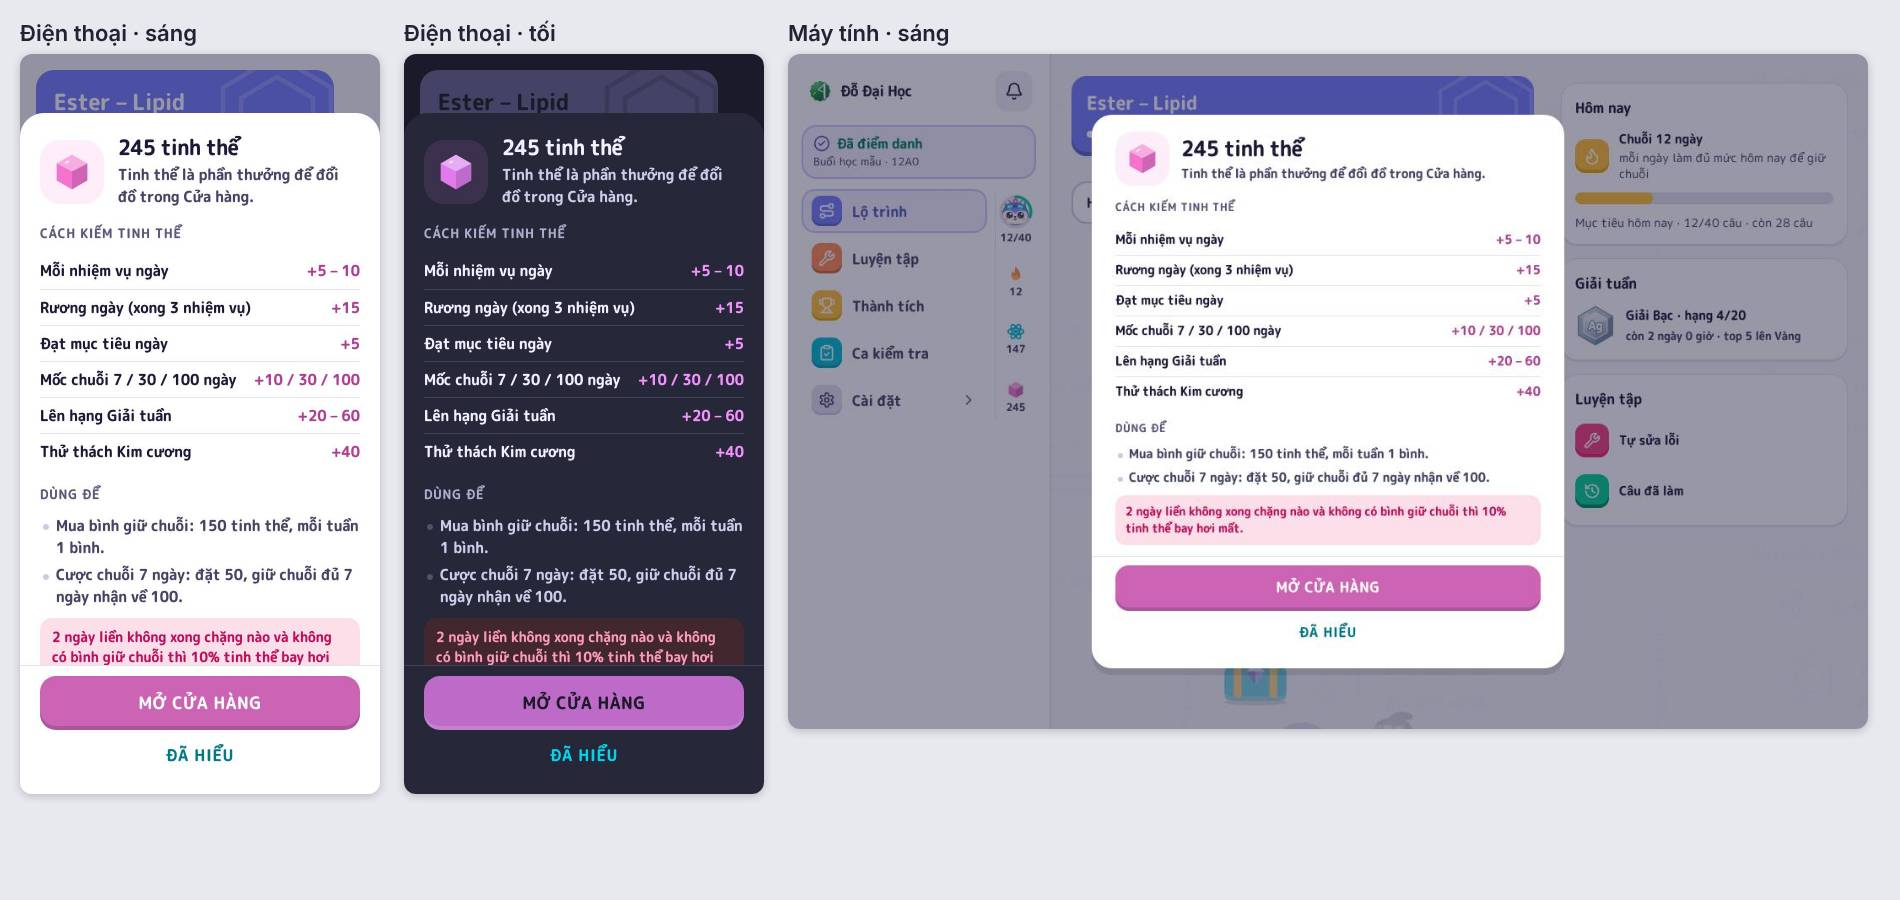
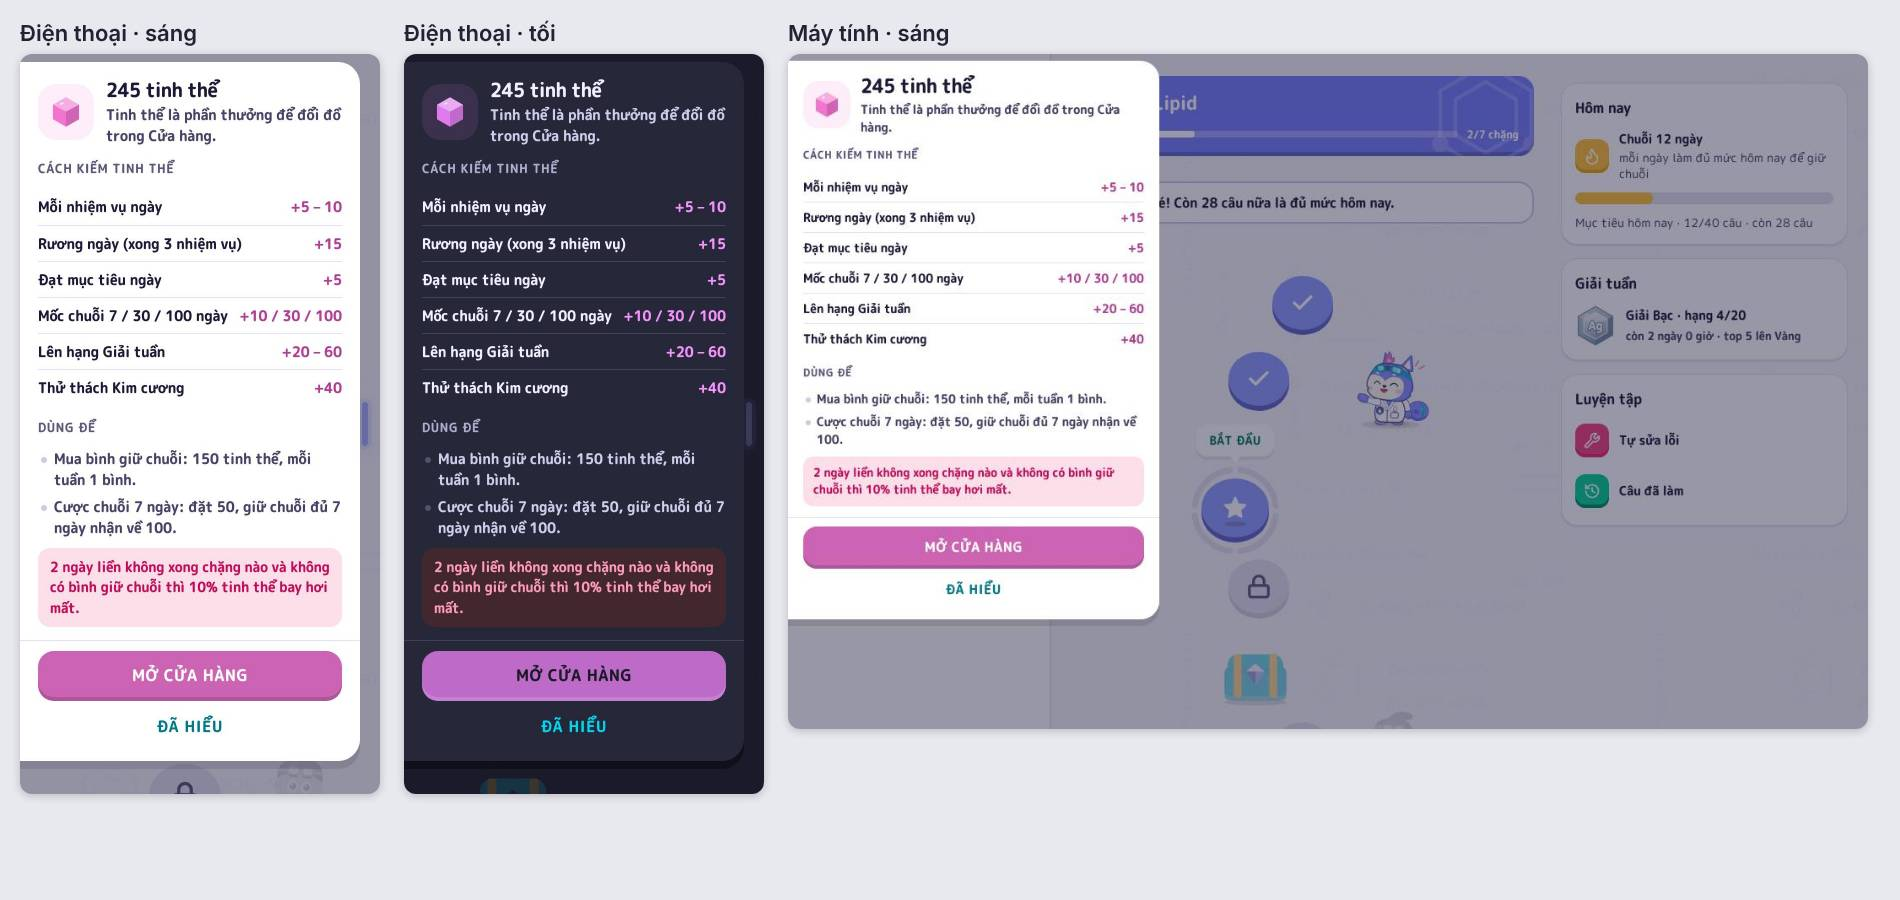
Thẻ hướng dẫn trượt ra từ mép trái, ghim góc trên trái; soát tràn chữ 5 khổ (thầy duyệt 30/10)
Claude-Session: https://claude.ai/code/session_01Ep3ep8fapn3LQteUN5cuuC

diff --git a/src/styles/trong-thuong.css b/src/styles/trong-thuong.css
@@ -601,64 +601,62 @@
 [data-trong='hs'] .tp-3o > div { display: grid; grid-row: span 2; grid-template-rows: subgrid; }
 [data-trong='hs'] .tp-3o p { display: grid; place-items: center; line-height: 1.25; }
 
-/* ── TẤM HƯỚNG DẪN BIỂU TƯỢNG (thầy 30/10, TamHuongDan.tsx): chạm lửa / nguyên tử / tinh thể ⇒ tấm đáy giải thích. Cùng dáng tấm giữ chân (trong-giu-chan.css):
-   nền mờ, tấm trượt lên có vạch kéo; máy tính ⇒ hộp giữa màn. Chỉ biến màu sẵn có; hoạt ảnh chỉ transform / opacity, giảm chuyển động / máy yếu ⇒ tắt. */
-[data-trong='hs'] .tp-hd { position: fixed; inset: 0; z-index: 85; display: flex; align-items: flex-end; justify-content: center; font-family: var(--tp-f); }
+/* ── THẺ HƯỚNG DẪN BIỂU TƯỢNG (thầy 30/10, TamHuongDan.tsx): chạm lửa / nguyên tử / tinh thể ⇒ thẻ giải thích. Thầy duyệt + đổi: «chảy ra từ mép trái và
+   cố định ở trên mép trái» ⇒ thẻ dán mép trái, ghim trên cùng, trượt ngang ra; nền mờ phía sau (chạm = đóng). Thẻ dài ⇒ nội dung cuộn, hai nút ghim đáy thẻ.
+   Chữ không tràn: cột số không xuống dòng, cột chữ co + xuống dòng (overflow-wrap). Chỉ biến màu sẵn có; hoạt ảnh chỉ transform / opacity, giảm chuyển động /
+   máy yếu ⇒ tắt. */
+[data-trong='hs'] .tp-hd { position: fixed; inset: 0; z-index: 85; display: flex; align-items: flex-start; justify-content: flex-start; font-family: var(--tp-f); }
 [data-trong='hs'] .tp-hd-nen { position: absolute; inset: 0; background: color-mix(in srgb, var(--tr-chu) 45%, transparent); animation: tp-hd-hien 200ms ease-out both; }
 @media (prefers-color-scheme: dark) { [data-trong='hs'] .tp-hd-nen { background: color-mix(in srgb, var(--tr-trang) 72%, transparent); } }
 [data-trong='hs'] .tp-hd-tam {
-  position: relative; width: min(560px, 100%); max-height: 92dvh; overflow-y: auto; overscroll-behavior: contain;
-  display: flex; flex-direction: column; gap: 10px; padding: 10px 20px calc(18px + env(safe-area-inset-bottom));
-  border-radius: 24px 24px 0 0; background: var(--tr-mat); color: var(--tr-chu); box-shadow: var(--tr-bong-3);
-  animation: tp-hd-truot 280ms cubic-bezier(.2, .9, .3, 1) both;
+  position: relative; box-sizing: border-box; width: min(440px, calc(100vw - 20px)); max-height: calc(100dvh - 16px - env(safe-area-inset-top));
+  margin-top: calc(8px + env(safe-area-inset-top)); overflow-x: hidden; overflow-y: auto; overscroll-behavior: contain;
+  display: flex; flex-direction: column; gap: 10px; padding: 16px 18px 16px calc(18px + env(safe-area-inset-left));
+  border-radius: 0 22px 22px 0; background: var(--tr-mat); color: var(--tr-chu); box-shadow: var(--tr-bong-3);
+  animation: tp-hd-chay 300ms cubic-bezier(.2, .9, .3, 1) both;
 }
-[data-trong='hs'] .tp-hd-keo { align-self: center; width: 44px; height: 5px; margin-bottom: 2px; border-radius: 999px; background: var(--tr-vien-2); }
-[data-trong='hs'] .tp-hd-dau { display: flex; align-items: center; gap: 14px; }
-[data-trong='hs'] .tp-hd-hinh { display: grid; place-items: center; width: 64px; height: 64px; flex: none; border-radius: 20px; background: var(--tr-dung-nhat); font-size: 40px; }
+[data-trong='hs'] .tp-hd-dau { display: flex; align-items: center; gap: 12px; min-width: 0; }
+[data-trong='hs'] .tp-hd-dau > div { min-width: 0; }
+[data-trong='hs'] .tp-hd-hinh { display: grid; place-items: center; width: 56px; height: 56px; flex: none; border-radius: 18px; background: var(--tr-dung-nhat); font-size: 34px; }
 [data-trong='hs'] .tp-hd[data-k='lua'] .tp-hd-hinh { background: var(--tr-chu-y-nhat); }
 [data-trong='hs'] .tp-hd[data-k='tt'] .tp-hd-hinh { background: var(--tp-tt-nhat); }
-[data-trong='hs'] .tp-hd-dau h2 { margin: 0; font-size: clamp(21px, 5.6vw, 25px); font-weight: 900; line-height: 1.2; }
-[data-trong='hs'] .tp-hd-dau p { margin: 4px 0 0; color: var(--tr-chu-2); font-size: 15px; font-weight: 600; line-height: 1.45; }
-[data-trong='hs'] .tp-hd-nay { margin: 0; padding: 9px 12px; border-radius: 12px; background: var(--tr-chu-y-nhat); color: var(--tr-chu-y-chu); font-size: 15px; font-weight: 800; line-height: 1.4; }
-[data-trong='hs'] .tp-hd-tam h3 { margin: 6px 0 0; color: var(--tr-chu-3); font-size: 13px; font-weight: 800; letter-spacing: .06em; text-transform: uppercase; }
+[data-trong='hs'] .tp-hd-dau h2 { margin: 0; font-size: clamp(19px, 5.4vw, 23px); font-weight: 900; line-height: 1.2; overflow-wrap: anywhere; }
+[data-trong='hs'] .tp-hd-dau p { margin: 3px 0 0; color: var(--tr-chu-2); font-size: 14.5px; font-weight: 600; line-height: 1.45; overflow-wrap: anywhere; }
+[data-trong='hs'] .tp-hd-nay { margin: 0; padding: 9px 12px; border-radius: 12px; background: var(--tr-chu-y-nhat); color: var(--tr-chu-y-chu); font-size: 14.5px; font-weight: 800; line-height: 1.4; overflow-wrap: anywhere; }
+[data-trong='hs'] .tp-hd-tam h3 { margin: 4px 0 0; color: var(--tr-chu-3); font-size: 12.5px; font-weight: 800; letter-spacing: .06em; text-transform: uppercase; }
 [data-trong='hs'] .tp-hd-ds, [data-trong='hs'] .tp-hd-dung { margin: 0; padding: 0; list-style: none; }
-[data-trong='hs'] .tp-hd-ds li { display: flex; align-items: center; gap: 10px; min-height: 36px; padding: 5px 0; border-top: 1px solid var(--tr-vien); font-size: 15px; line-height: 1.35; }
+[data-trong='hs'] .tp-hd-ds li { display: flex; align-items: center; gap: 10px; min-height: 36px; padding: 5px 0; border-top: 1px solid var(--tr-vien); font-size: 14.5px; line-height: 1.35; }
 [data-trong='hs'] .tp-hd-ds li:first-child { border-top: 0; }
-[data-trong='hs'] .tp-hd-ds li span { flex: 1; min-width: 0; color: var(--tr-chu); font-weight: 600; }
-[data-trong='hs'] .tp-hd-ds li b { flex: none; color: var(--tr-dung-chu); font-weight: 900; white-space: nowrap; }
+[data-trong='hs'] .tp-hd-ds li span { flex: 1; min-width: 0; color: var(--tr-chu); font-weight: 600; overflow-wrap: anywhere; }
+[data-trong='hs'] .tp-hd-ds li b { flex: none; max-width: 48%; color: var(--tr-dung-chu); font-weight: 900; text-align: right; }
 [data-trong='hs'] .tp-hd[data-k='tt'] .tp-hd-ds li b { color: var(--tp-tt-chu); }
 [data-trong='hs'] .tp-hd[data-k='lua'] .tp-hd-ds li b { color: var(--tr-chu-y-chu); }
 [data-trong='hs'] .tp-hd-dung { display: flex; flex-direction: column; gap: 6px; }
-[data-trong='hs'] .tp-hd-dung li { position: relative; padding-left: 16px; color: var(--tr-chu-2); font-size: 15px; font-weight: 600; line-height: 1.45; }
+[data-trong='hs'] .tp-hd-dung li { position: relative; padding-left: 16px; color: var(--tr-chu-2); font-size: 14.5px; font-weight: 600; line-height: 1.45; overflow-wrap: anywhere; }
 [data-trong='hs'] .tp-hd-dung li::before { content: ''; position: absolute; left: 3px; top: .62em; width: 6px; height: 6px; border-radius: 50%; background: var(--tr-vien-2); }
-[data-trong='hs'] .tp-hd-luu { margin: 0; padding: 9px 12px; border-radius: 12px; background: var(--tr-sai-nhat); color: var(--tr-sai-chu); font-size: 14px; font-weight: 700; line-height: 1.45; }
-/* nút ghim đáy tấm (tấm dài trên điện thoại vẫn thấy nút ngay, nội dung cuộn dưới nút) */
+[data-trong='hs'] .tp-hd-luu { margin: 0; padding: 9px 12px; border-radius: 12px; background: var(--tr-sai-nhat); color: var(--tr-sai-chu); font-size: 14px; font-weight: 700; line-height: 1.45; overflow-wrap: anywhere; }
+/* nút ghim đáy thẻ (thẻ dài trên điện thoại vẫn thấy nút ngay, nội dung cuộn dưới nút) */
 [data-trong='hs'] .tp-hd-nut {
-  position: sticky; bottom: calc(-18px - env(safe-area-inset-bottom)); z-index: 1; display: flex; flex-direction: column; gap: 2px;
-  margin: 4px -20px calc(-18px - env(safe-area-inset-bottom)); padding: 10px 20px calc(14px + env(safe-area-inset-bottom));
+  position: sticky; bottom: -16px; z-index: 1; display: flex; flex-direction: column; gap: 2px;
+  margin: 4px -18px -16px calc(-18px - env(safe-area-inset-left)); padding: 10px 18px 12px calc(18px + env(safe-area-inset-left));
   background: var(--tr-mat); box-shadow: 0 -1px 0 var(--tr-vien);
 }
 [data-trong='hs'] .tp-hd[data-k='tt'] .tp-hd-nut .tp-nut-lon:first-child { background: var(--tp-tt-dam); color: var(--tp-tren); }
+[data-trong='hs'] .tp-hd .tp-nut-lon { min-height: 50px; padding: 0 14px; font-size: 16px; white-space: normal; text-align: center; }
 [data-trong='hs'] .tp-hd-hieu {
-  min-height: 48px; padding: 0 16px; border: 0; border-radius: 14px; background: transparent; color: var(--tr-tin-chu);
-  font: 800 16px/1.2 var(--tp-f); letter-spacing: .06em; text-transform: uppercase; cursor: pointer; touch-action: manipulation;
+  min-height: 46px; padding: 0 16px; border: 0; border-radius: 14px; background: transparent; color: var(--tr-tin-chu);
+  font: 800 15.5px/1.2 var(--tp-f); letter-spacing: .06em; text-transform: uppercase; cursor: pointer; touch-action: manipulation;
 }
 [data-trong='hs'] .tp-hd-hieu:hover { background: var(--tr-tin-nhat); }
 [data-trong='hs'] .tp-hd :is(.tp-nut-lon, .tp-hd-hieu):focus-visible { outline: 3px solid var(--tr-tin); outline-offset: 2px; }
+/* khung thấp (xoay ngang): biểu tượng nhỏ lại, hai nút cùng hàng */
 @media (max-height: 560px) {
-  [data-trong='hs'] .tp-hd-tam { gap: 6px; padding-top: 6px; }
-  [data-trong='hs'] .tp-hd-hinh { width: 48px; height: 48px; font-size: 30px; border-radius: 16px; }
+  [data-trong='hs'] .tp-hd-tam { gap: 6px; padding-top: 10px; }
+  [data-trong='hs'] .tp-hd-hinh { width: 44px; height: 44px; font-size: 26px; border-radius: 14px; }
   [data-trong='hs'] .tp-hd-nut { flex-direction: row-reverse; }
   [data-trong='hs'] .tp-hd-nut > * { flex: 1; }
 }
-@media (min-width: 900px) and (min-height: 600px) {
-  [data-trong='hs'] .tp-hd { align-items: center; }
-  [data-trong='hs'] .tp-hd-tam { border-radius: 24px; padding: 20px 28px 22px; animation-name: tp-hd-noi; }
-  [data-trong='hs'] .tp-hd-nut { bottom: -22px; margin: 4px -28px -22px; padding: 10px 28px 18px; border-radius: 0 0 24px 24px; }
-  [data-trong='hs'] .tp-hd-keo { display: none; }
-}
 @keyframes tp-hd-hien { from { opacity: 0; } }
-@keyframes tp-hd-truot { from { transform: translateY(100%); } }
-@keyframes tp-hd-noi { from { opacity: 0; transform: translateY(24px) scale(.97); } }
+@keyframes tp-hd-chay { from { transform: translateX(-100%); } }
 @media (prefers-reduced-motion: reduce) { [data-trong='hs'] :is(.tp-hd-nen, .tp-hd-tam) { animation: none !important; } }
 [data-trong].may-yeu :is(.tp-hd-nen, .tp-hd-tam) { animation: none; }

diff --git a/src/components/thuong/TamHuongDan.tsx b/src/components/thuong/TamHuongDan.tsx
@@ -1,5 +1,5 @@
 // TẤM HƯỚNG DẪN BIỂU TƯỢNG (thầy 30/10 «hs khi bấm vào các biểu tượng tinh thể nguyên tử lửa đều có hướng dẫn dễ hiểu»): chạm lửa / nguyên tử / tinh thể
-// (hàng số trong menu Lộ trình, ô nguyên tử trên màn làm chặng) ⇒ tấm đáy: biểu tượng to + số của em · «là gì» một câu · cách có (đúng số của luật) ·
+// (hàng số trong menu Lộ trình, ô nguyên tử trên màn làm chặng) ⇒ thẻ trượt ra từ mép trái, ghim góc trên trái (thầy duyệt 30/10): biểu tượng to + số của em · «là gì» một câu · cách có (đúng số của luật) ·
 // dùng để làm gì · nút sang màn chi tiết («Đã hiểu» đóng). Số luật lấy CÙNG nguồn màn chi tiết (LUAT_CHUOI, thuong-api, bảng «Cách kiếm tinh thể»,
 // exp-cau-hinh.ts phía máy chủ) — không bịa. Công tắc tắt (giải tuần, Kim cương, thăng hoa) ⇒ dòng đó ẩn. Đi trong mảnh nạp lười ManThuong (CSS ở
 // trong-thuong.css) ⇒ không thêm byte mở app, không thêm tệp precache. Chạm nền mờ / Esc = đóng; mở ⇒ con trỏ vào nút chính, đóng ⇒ trả về chỗ cũ.
@@ -129,7 +129,6 @@ export function TamHuongDan({ loai, tq, soBai, onMo, onDong }: PropsTamHuongDan)
   return <div className="tp-hd" data-k={loai}>
     <div className="tp-hd-nen" aria-hidden="true" onClick={onDong} />
     <section className="tp-hd-tam" role="dialog" aria-modal="true" aria-labelledby={`${id}-t`} aria-describedby={`${id}-l`} onKeyDown={giuTab}>
-      <span className="tp-hd-keo" aria-hidden="true" />
       <div className="tp-hd-dau">
         <span className="tp-hd-hinh" aria-hidden="true">{Ic}</span>
         <div><h2 id={`${id}-t`}>{nd.tieu}</h2><p id={`${id}-l`}>{nd.la}</p></div>
